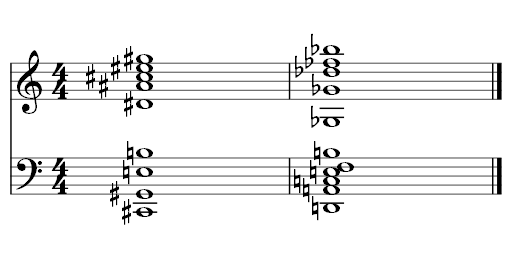
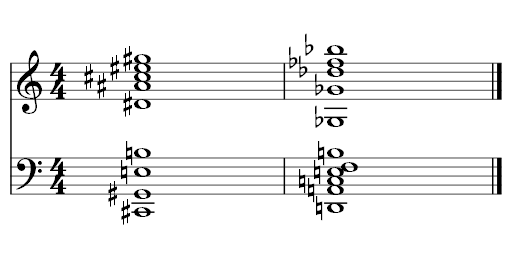
fix #25055: accidentals on large chords
Former-commit-id: cd8c4f26718375660da81238662319fd5ce911c6

diff --git a/libmscore/layout.cpp b/libmscore/layout.cpp
@@ -505,6 +505,7 @@ struct AcEl {
       qreal top;        // top of accidental bbox relative to staff
       qreal bottom;     // bottom of accidental bbox relative to staff
       int line;         // line of note
+      int next;         // index of next accidental of same pitch class (ascending list)
       qreal width;      // width of accidental
       qreal ascent;     // amount (in sp) vertical strokes extend above body
       qreal descent;    // amount (in sp) vertical strokes extend below body
@@ -578,15 +579,13 @@ static bool resolveAccidentals(AcEl* left, AcEl* right, qreal& lx, qreal pnd, qr
 //   layoutAccidental
 //---------------------------------------------------------
 
-static void layoutAccidental(AcEl* me, AcEl* above, AcEl* below, QList<Note*>& leftNotes, qreal pnd, qreal pd, qreal sp)
+static qreal layoutAccidental(AcEl* me, AcEl* above, AcEl* below, qreal colOffset, QList<Note*>& leftNotes, qreal pnd, qreal pd, qreal sp)
       {
-      qreal lx;
+      qreal lx = colOffset;
 
       // extra space for ledger lines
       if (me->line <= -2 || me->line >= me->note->staff()->lines() * 2)
-            lx = -0.2 * sp;
-      else
-            lx = 0.0;
+            lx = qMin(lx, -0.2 * sp);
 
       // clear left notes
       int lns = leftNotes.size();
@@ -615,10 +614,13 @@ static void layoutAccidental(AcEl* me, AcEl* above, AcEl* below, QList<Note*>& l
             conflictAbove = resolveAccidentals(me, above, lx, pnd, pd, sp);
       if (below)
             conflictBelow = resolveAccidentals(me, below, lx, pnd, pd, sp);
-      if (conflictAbove || conflictBelow)
+      if (conflictAbove || conflictBelow || colOffset != 0.0)
             me->x = lx - pd * acc->mag() - acc->width();
       else
             me->x = lx - pnd * acc->mag() - acc->width() - acc->bbox().x();
+
+      return me->x;
+
       }
 
 //---------------------------------------------------------
@@ -634,8 +636,10 @@ void Score::layoutChords3(QList<Note*>& notes, Staff* staff, Segment* segment)
       //    find column for dots
       //---------------------------------------------------
 
-      std::vector<AcEl> aclist;
-      QList<Note*> leftNotes;             // notes to left of origin
+      QList<Note*> leftNotes; // notes to left of origin
+      QList<AcEl> aclist;     // accidentals
+      // track columns of octave-separated accidentals
+      int columnBottom[7] = { -1, -1, -1, -1, -1, -1, -1 };
 
       qreal sp           = staff->spatium();
       qreal stepDistance = sp * .5;
@@ -647,6 +651,7 @@ void Score::layoutChords3(QList<Note*>& notes, Staff* staff, Segment* segment)
       bool offsetDots         = false;
 
       int nNotes = notes.size();
+      int nAcc = 0;
       for (int i = nNotes-1; i >= 0; --i) {
             Note* note     = notes[i];
             Accidental* ac = note->accidental();
@@ -654,10 +659,11 @@ void Score::layoutChords3(QList<Note*>& notes, Staff* staff, Segment* segment)
                   ac->layout();
                   AcEl acel;
                   acel.note   = note;
-                  acel.line   = note->line();
+                  int line    = note->line();
+                  acel.line   = line;
                   acel.x      = 0.0;
-                  acel.top    = acel.line * 0.5 * sp + ac->bbox().top();
-                  acel.bottom = acel.line * 0.5 * sp + ac->bbox().bottom();
+                  acel.top    = line * 0.5 * sp + ac->bbox().top();
+                  acel.bottom = line * 0.5 * sp + ac->bbox().bottom();
                   acel.width  = ac->width();
                   qreal scale = sp * ac->mag();
                   switch (ac->accidentalType()) {
@@ -691,7 +697,11 @@ void Score::layoutChords3(QList<Note*>& notes, Staff* staff, Segment* segment)
                               acel.rightClear = 0;
                               acel.leftClear = 0;
                         }
-                  aclist.push_back(acel);
+                  int pitchClass = (line + 700) % 7;
+                  acel.next = columnBottom[pitchClass];
+                  columnBottom[pitchClass] = nAcc;
+                  aclist.append(acel);
+                  ++nAcc;
                   }
             qreal hw = note->headWidth();
 
@@ -765,49 +775,142 @@ void Score::layoutChords3(QList<Note*>& notes, Staff* staff, Segment* segment)
             segment->setDotPosX(staff->idx(), dotPosX);
             }
 
-      int nAcc = aclist.size();
       if (nAcc == 0)
             return;
 
+      QList<int> umi;
       qreal pd  = point(styleS(ST_accidentalDistance));
       qreal pnd = point(styleS(ST_accidentalNoteDistance));
+      qreal colOffset = 0.0;
 
-      //
-      // use zig zag approach
-      // layout in pairs: right to left, high then low
-      //
-      // TODO: we really need special handling
-      // for large chords with lots of accidentals
-      // to avoid the "wedge effect"
-      // (accidentals forming a wedge with empty space within)
+      if (nAcc >= 2 && aclist[nAcc-1].line - aclist[0].line >= 7) {
 
-      // layout top accidental
-      layoutAccidental(&aclist[0], 0, 0, leftNotes, pnd, pd, sp);
+            // accidentals spread over an octave or more
+            // set up columns for accidentals with octave matches
+            // these will start at right and work to the left
+            // unmatched accidentals will use zig zag approach (see below)
+            // starting to the left of the octave columns
 
-      // layout bottom accidental
-      if (nAcc > 1)
-            layoutAccidental(&aclist[nAcc-1], &aclist[0], 0, leftNotes, pnd, pd, sp);
+            qreal minX = 0.0;
+            int columnTop[7] = { -1, -1, -1, -1, -1, -1, -1 };
 
-      // layout middle accidentals
-      if (nAcc > 2) {
-            int n = nAcc - 1;
-            AcEl* me = &aclist[n];
-            AcEl* above = &aclist[0];
-            AcEl* below;
-            for (int i = 1; i < n; ++i, --n) {
-                  // next highest
-                  below = me;
-                  me = &aclist[i];
-                  layoutAccidental(me, above, below, leftNotes, pnd, pd, sp);
-
-                  if (i == n - 1)
-                        break;
-
-                  // next lowest
-                  above = me;
-                  me = &aclist[n-1];
-                  layoutAccidental(me, above, below, leftNotes, pnd, pd, sp);
+            // find columns of octaves
+            for (int pc = 0; pc < 7; ++pc) {
+                  if (columnBottom[pc] == -1)
+                        continue;
+                  int lastLine = aclist[columnBottom[pc]].line;
+                  int firstLine = lastLine;
+                  // calculate column height
+                  for (int j = columnBottom[pc]; j != -1; j = aclist[j].next) {
+                        firstLine = aclist[j].line;
+                        columnTop[pc] = j;
+                        }
+                  if (firstLine == lastLine) {
+                        columnTop[pc] = -1;
+                        continue;
+                        }
                   }
+
+            // compute reasonable column order
+            // use zig zag
+            QList<int> column;\
+            int n = nAcc - 1;
+            for (int i = 0; i <= n; ++i, --n) {
+                  int pc = (aclist[i].line + 700) % 7;
+                  if (columnTop[pc] != -1) {
+                        column.append(pc);
+                        columnTop[pc] = -1;
+                        }
+                  if (i == n)
+                        break;
+                  pc = (aclist[n].line + 700) % 7;
+                  if (columnTop[pc] != -1) {
+                        column.append(pc);
+                        columnTop[pc] = -1;
+                        }
+                  }
+
+            // lay out columns
+            int nColumns = column.size();
+            for (int i = 0; i < nColumns; ++i) {
+                  int pc = column[i];
+                  AcEl* below = 0;
+                  // lay out accidentals
+                  for (int j = columnBottom[pc]; j != -1; j = aclist[j].next) {
+                        qreal x = layoutAccidental(&aclist[j], 0, below, colOffset, leftNotes, pnd, pd, sp);
+                        minX = qMin(minX, x);
+                        below = &aclist[j];
+                        }
+                  // align within column
+                  int next = -1;
+                  for (int j = columnBottom[pc]; j != -1; j = next) {
+                        next = aclist[j].next;
+                        if (next != -1 && aclist[j].line == aclist[next].line)
+                              continue;
+                        aclist[j].x = minX;
+                        }
+                  // move to next column
+                  colOffset = minX;
+                  // mark as done
+                  columnBottom[pc] = -1;
+                  }
+
+            // build list of unmatched accidentals
+            int nUnmatched = 0;
+            for (int i = 0; i < nAcc; ++i) {
+            int pc = (aclist[i].line + 700) % 7;
+                  if (columnBottom[pc] == -1)
+                        continue;
+                  else {
+                        umi.append(i);
+                        ++nUnmatched;
+                        }
+                  }
+            nAcc = nUnmatched;
+
+            }
+
+      else {
+            for (int i = 0; i < nAcc; ++i)
+                  umi.append(i);
+            }
+
+      if (nAcc) {
+
+            // for accidentals with no octave matches, use zig zag approach
+            // layout right to left in pairs, (next) highest then lowest
+
+            AcEl* me = &aclist[umi[0]];
+            AcEl* above = 0;
+            AcEl* below = 0;
+
+            // layout top accidental
+            layoutAccidental(me, above, below, colOffset, leftNotes, pnd, pd, sp);
+
+            // layout bottom accidental
+            int n = nAcc - 1;
+            if (n > 0) {
+                  above = me;
+                  me = &aclist[umi[n]];
+                  layoutAccidental(me, above, below, colOffset, leftNotes, pnd, pd, sp);
+                  }
+
+            // layout middle accidentals
+            if (n > 1) {
+                  for (int i = 1; i < n; ++i, --n) {
+                        // next highest
+                        below = me;
+                        me = &aclist[umi[i]];
+                        layoutAccidental(me, above, below, colOffset, leftNotes, pnd, pd, sp);
+                        if (i == n - 1)
+                              break;
+                        // next lowest
+                        above = me;
+                        me = &aclist[umi[n-1]];
+                        layoutAccidental(me, above, below, colOffset, leftNotes, pnd, pd, sp);
+                        }
+                  }
+
             }
 
       for (const AcEl& e : aclist) {
